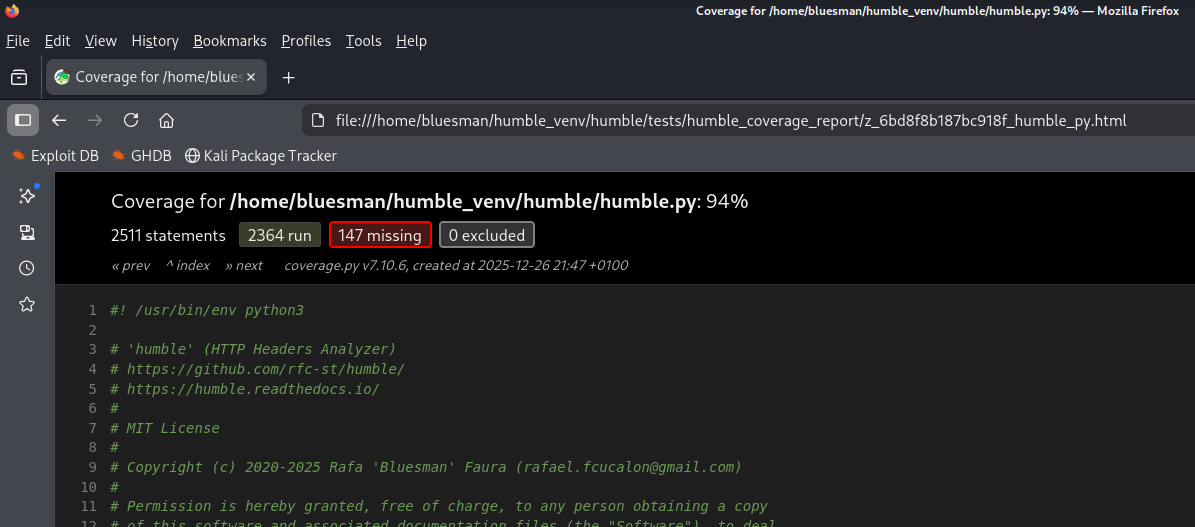
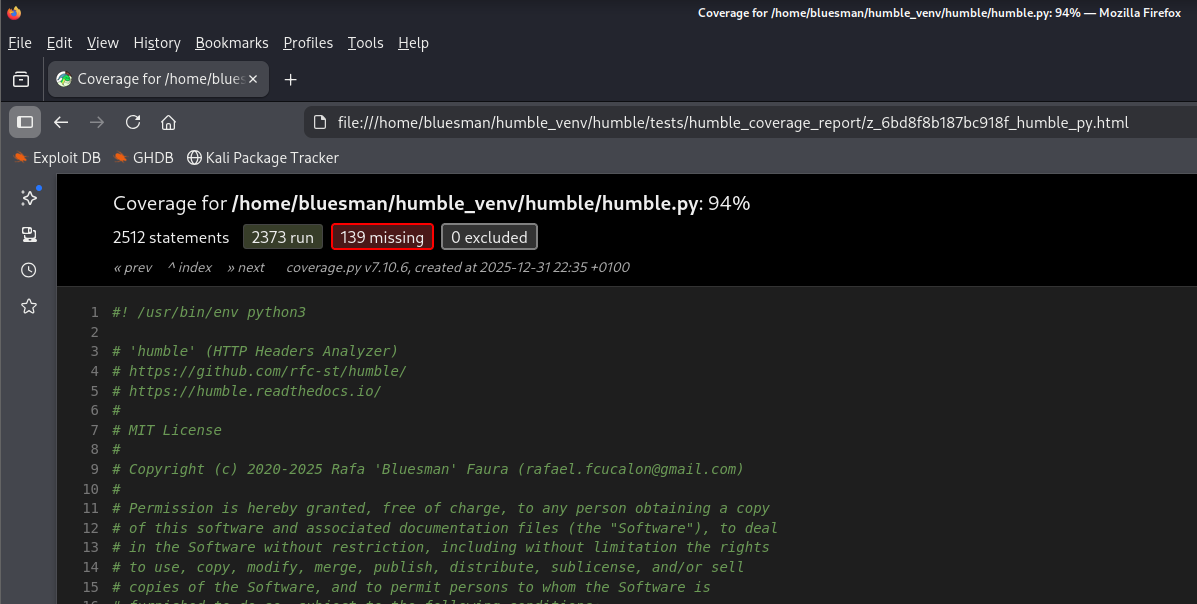
Feature: 4 new unit tests

diff --git a/tests/test_humble.py b/tests/test_humble.py
@@ -53,6 +53,8 @@ HUMBLE_L10N_FILE = ('details.txt', 'details_es.txt')
 HUMBLE_MAIN_FILE = path.abspath(path.join(HUMBLE_TESTS_DIR, '..', 'humble.py'))
 HUMBLE_NOSECHEADERS_FILE = path.abspath(path.join(HUMBLE_TESTS_DIR,
                                                   'headers_none_security.txt'))
+HUMBLE_UNICODE_FILE = path.abspath(path.join(HUMBLE_TESTS_DIR,
+                                             'headers_test_unicode.txt'))
 TEST_URLS = ('https://github.com/rfc-st/humble',
              'https://www.chicagotribune.com/', 'https://github.com',
              'http://github.com', 'https://humbletestingnosecheaders.com',
@@ -100,6 +102,9 @@ TEST_CFGS = {
     'test_export_json_brief': (['-u', TEST_URLS[9], '-o', 'json', '-b'],
                                'JSON saved'),
     'test_export_pdf': (['-u', TEST_URLS[9], '-o', 'pdf'], 'PDF saved'),
+    'test_export_pdf_empty_headers': (['-u', TEST_URLS[9], '-if',
+                                       HUMBLE_GRADE_D_FILE, '-o', 'pdf'],
+                                      'PDF saved'),
     'test_export_xlsx': (['-u', TEST_URLS[9], '-o', 'xlsx'], 'XLSX saved'),
     'test_export_xml': (['-u', TEST_URLS[9], '-o', 'xml'], 'XML saved'),
     'test_fingerprint_groups': (['-f'], 'Top 20 groups'),
@@ -143,6 +148,8 @@ TEST_CFGS = {
     'test_server_error_response': (['-u', TEST_URLS[11]], 'Server'),
     'test_skipped_headers': (['-u', TEST_URLS[9], '-s', 'ETAG', 'NEL'],
                              'expressly excluded'),
+    'test_unicode_error': (['-u', TEST_URLS[9], '-if', HUMBLE_UNICODE_FILE],
+                           'unicode'),
     'test_unreliable_analysis': (['-u', TEST_URLS[10]], 'reliable'),
     'test_unsupported_header': (['-u', TEST_URLS[9], '-s', 'testhumbleheader'],
                                 'testhumbleheader'),
@@ -155,6 +162,9 @@ TEST_CFGS = {
     'test_user_agent': (['-u', TEST_URLS[9], '-ua', '4'],
                         'Selected the User-Agent'),
     'test_user_agent_list': (['-ua', '0'], 'source: '),
+    'test_user_agent_only': (['-ua', '4'], 'requires'),
+    'test_user_agent_wrong': (['-u', TEST_URLS[9], '-ua', '999999'],
+                              'available'),
     'test_valid_output_path': (['-u', TEST_URLS[9], '-o', 'csv', '-op', '.'],
                                'saved'),
     'test_wrong_testssl': (['-u', TEST_URLS[9], '-e',
@@ -170,13 +180,13 @@ TEST_SUMMS = ('[test_help]', '[test_all_headers]', '[test_unsafe_all_headers]',
               '[test_export_csv]', '[test_export_html]',
               '[test_export_html_csp]', '[test_export_json]',
               '[test_export_json_brief]', '[test_export_pdf]',
-              '[test_export_xlsx]', '[test_export_xml]',
-              '[test_fingerprint_groups]', '[test_fingerprint_term]',
-              '[test_fingerprint_term_no_results]', '[test_global_statistics]',
-              '[test_http_exception]', '[test_input_file]',
-              '[test_input_traversal]', '[test_invalid_file_path]',
-              '[test_invalid_output_path]', '[test_l10n_analysis]',
-              '[test_l10n_grades]', '[test_license]',
+              '[test_export_pdf_empty_headers]', '[test_export_xlsx]',
+              '[test_export_xml]', '[test_fingerprint_groups]',
+              '[test_fingerprint_term]', '[test_fingerprint_term_no_results]',
+              '[test_global_statistics]', '[test_http_exception]',
+              '[test_input_file]', '[test_input_traversal]',
+              '[test_invalid_file_path]', '[test_invalid_output_path]',
+              '[test_l10n_analysis]', '[test_l10n_grades]', '[test_license]',
               '[test_no_security_headers]', '[test_owasp_compliance]',
               '[test_proxy_unreachable]', '[test_proxy_wrong]',
               '[test_redirects]', '[test_malformed_request_headers]',
@@ -184,12 +194,13 @@ TEST_SUMMS = ('[test_help]', '[test_all_headers]', '[test_unsafe_all_headers]',
               '[test_request_invalid_header]', '[test_response_headers]',
               '[test_russian_block]', '[test_security_guidelines]',
               '[test_server_error_response]', '[test_skipped_headers]',
-              '[test_unreliable_analysis]', '[test_unsupported_header]',
-              '[test_updates]', '[test_url_statistics]',
-              '[test_url_insufficient_statistics]', '[test_user_agent]',
-              '[test_user_agent_list]', '[test_valid_output_path]',
-              '[test_wrong_testssl]', '[test_python_version]',
-              '[test_missing_parameters]')
+              '[test_unicode_error]', '[test_unreliable_analysis]',
+              '[test_unsupported_header]', '[test_updates]',
+              '[test_url_statistics]', '[test_url_insufficient_statistics]',
+              '[test_user_agent]', '[test_user_agent_list]',
+              '[test_user_agent_only]', '[test_user_agent_wrong]',
+              '[test_valid_output_path]', '[test_wrong_testssl]',
+              '[test_python_version]', '[test_missing_parameters]')
 
 
 class _Args:
@@ -448,7 +459,7 @@ def cleanup_analysis_history():
             fsync(original_file.fileno())
 
 
-local_version = datetime.strptime('2025-12-27', '%Y-%m-%d').date()
+local_version = datetime.strptime('2025-12-31', '%Y-%m-%d').date()
 parser = ArgumentParser(
     formatter_class=lambda prog: RawDescriptionHelpFormatter(
         prog, max_help_position=34

diff --git a/humble.py b/humble.py
@@ -176,7 +176,7 @@ XFRAME_CHECK = 'X-Frame-Options ('
 XML_STRING = ('Ref: ', 'Value: ', 'Valor: ')
 
 current_time = datetime.now().strftime("%Y/%m/%d - %H:%M:%S")
-local_version = datetime.strptime('2025-12-27', '%Y-%m-%d').date()
+local_version = datetime.strptime('2025-12-31', '%Y-%m-%d').date()
 
 BANNER_VERSION = f'{URL_LIST[4]} | v.{local_version}'
 
@@ -1375,7 +1375,7 @@ def print_nowarnings():
 
 
 def print_header(header):
-    """Print the header name (generic use)."""
+    """Print the header name (generic use)"""
     print(f" {header}" if args.output else f"{STYLE[1]} {header}")
 
 
@@ -1383,9 +1383,6 @@ def print_fng_header(header):
     """Print the header name in the fingerprint section of the analysis"""
     if args.output:
         print(f" {header}")
-    elif '[' in header:
-        prefix, _, suffix = header.partition(' [')
-        print(f"{STYLE[1]} {prefix}{STYLE[3]}{STYLE[5]} [{suffix}")
     else:
         print(f"{STYLE[1]} {header}")
 
@@ -2801,8 +2798,11 @@ def set_pdf_nowarnings(line, pdf, ypos):
 def set_pdf_empty(l_empty, line, pdf, ypos):
     """Format line with empty headers; related to analysis exported to PDF"""
     ln_strip = line.lstrip().lower()
-    if any(i in ln_strip for i in l_empty) and ('[' not in ln_strip and ':'
-                                                not in ln_strip):
+    if (
+        any(i.lower() in ln_strip for i in l_empty)
+        and '[' not in ln_strip
+        and ':' not in ln_strip
+    ):
         pdf.set_text_color(255, 0, 0)
         pdf.multi_cell(197, 6, text=line, align='L', new_y=ypos.LAST)
         return True

diff --git a/README.md b/README.md
@@ -6,7 +6,7 @@
 <a target="_blank" href="https://devguide.python.org/versions/" title="Minimum Python version required to run this tool"><img src="https://img.shields.io/badge/Python-%3E%3D3.11-blue?labelColor=343b41"></a>
 <a target="_blank" href="LICENSE" title="License of this tool"><img src="https://img.shields.io/badge/License-MIT-blue.svg?labelColor=343b41"></a>
 <a target="_blank" href="https://github.com/rfc-st/humble/releases" title="Latest release of this tool"><img src="https://img.shields.io/github/v/release/rfc-st/humble?display_name=release&label=Latest%20Release&labelColor=343b41"></a>
-<a target="_blank" href="https://github.com/rfc-st/humble/commits/master" title="Latest commit of this tool"><img src="https://img.shields.io/badge/Latest_Commit-2025--12--27-blue.svg?labelColor=343b41"></a>
+<a target="_blank" href="https://github.com/rfc-st/humble/commits/master" title="Latest commit of this tool"><img src="https://img.shields.io/badge/Latest_Commit-2025--12--31-blue.svg?labelColor=343b41"></a>
 <a target="_blank" href="https://pkg.kali.org/pkg/humble" title="Official tool in Kali Linux"><img src="https://img.shields.io/badge/Kali%20Linux-Tool-blue?labelColor=343b41"></a>
 <br />
 <a target="_blank" href="#" title="Featured on:"><img src="https://img.shields.io/badge/Featured%20on:-343b41"></a>

diff --git a/docs/index.md b/docs/index.md
@@ -73,6 +73,6 @@ And a special greeting to Alba, Aleix, Alejandro (x3), Álvaro, Ana, Carlos (x3)
 <aside class="md-source-file">
 <span class="md-source-file__fact">
 Last updated on
-<span class="git-revision-date-localized-plugin git-revision-date-localized-plugin-datetime"><em>December 27, 2025</em></span>
+<span class="git-revision-date-localized-plugin git-revision-date-localized-plugin-datetime"><em>December 31, 2025</em></span>
 </span>
 </aside>

diff --git a/docs/references.md b/docs/references.md
@@ -7,6 +7,6 @@ Classes and functions of **humble.py**, in alphabetical order (work in progress)
 <aside class="md-source-file">
 <span class="md-source-file__fact">
 Last updated on
-<span class="git-revision-date-localized-plugin git-revision-date-localized-plugin-datetime"><em>December 27, 2025</em></span>
+<span class="git-revision-date-localized-plugin git-revision-date-localized-plugin-datetime"><em>December 31, 2025</em></span>
 </span>
 </aside>
